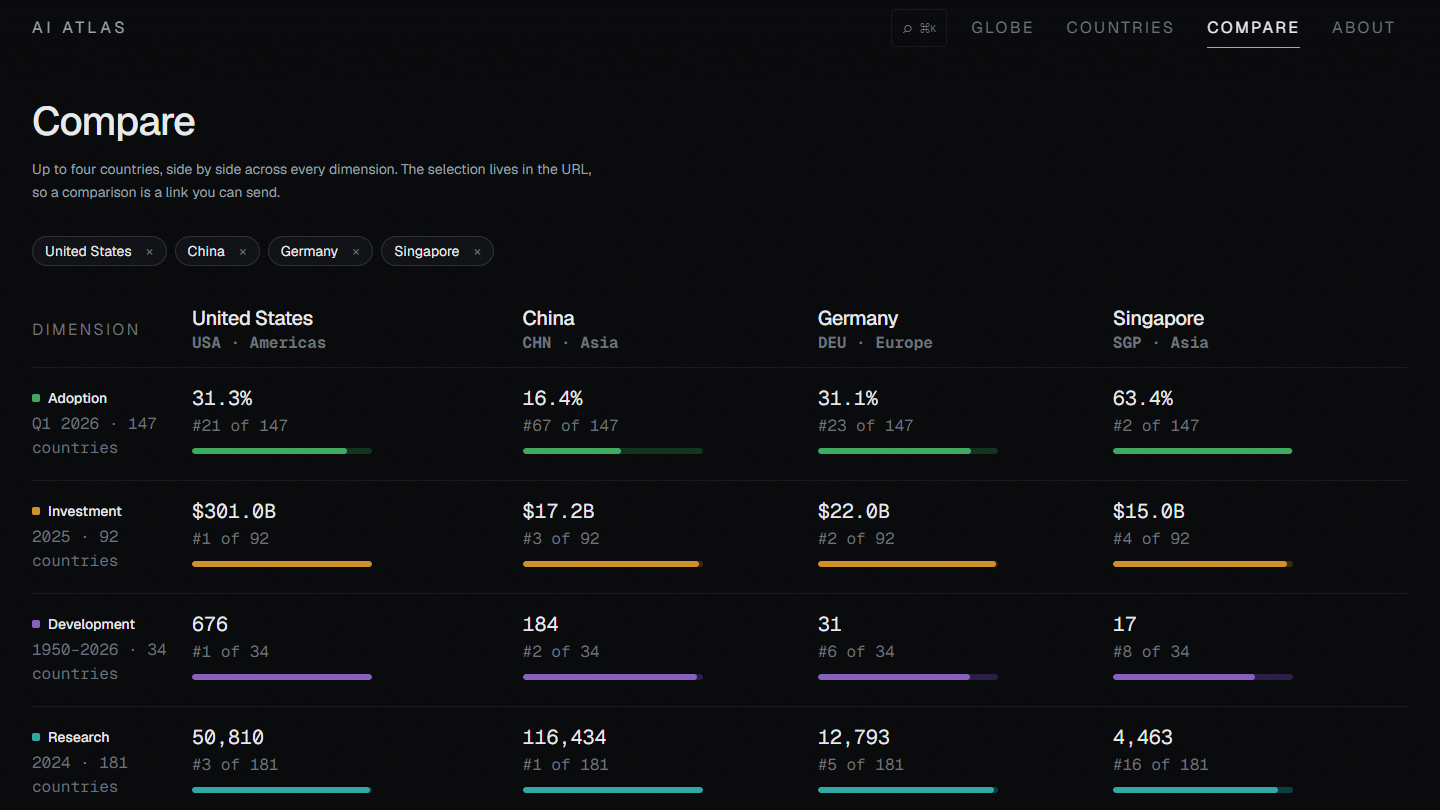
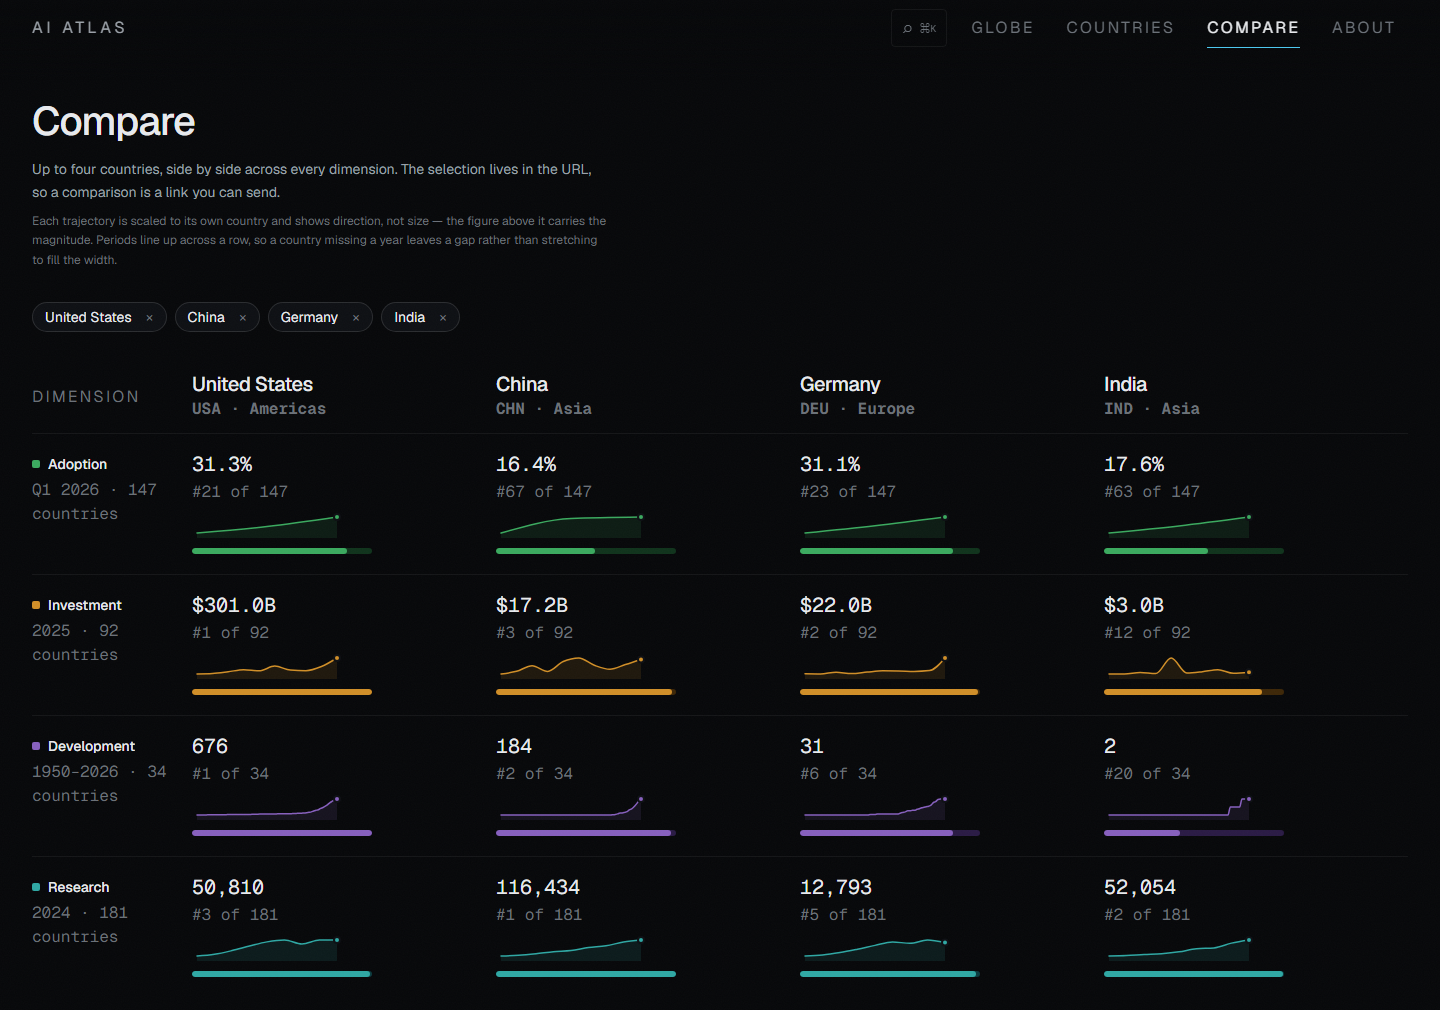
Update README for the scrubber, and refresh the stale screenshots
The globe caption, the interaction table and the deep-link example now
cover scrubbing, and the architecture section explains why the colour
scale spans every period rather than the one on screen — it is the
clearest example in the project of the "never fabricate a number" rule
applying to a visual choice rather than a figure.

Three screenshots showed features that have since changed: the globe
panel had no scrubber and no way into the country page, the countries
table had no column distributions, and compare had no trajectories.
Re-shot at 1440 wide at 1x to match the ones already in the repo, which
also takes the globe panel from 3.5 MB down to under 1 MB.

diff --git a/README.md b/README.md
@@ -32,20 +32,20 @@ that into one number would be inventing a finding rather than showing one.
 
 <table>
 <tr>
-<td width="50%"><img src="docs/assets/country-panel.png" alt="The United States selected on the investment layer"></td>
+<td width="50%"><img src="docs/assets/country-panel.png" alt="The United States selected on the investment layer, with the decade scrubber below the globe"></td>
 <td width="50%"><img src="docs/assets/country-page.png" alt="China's country page, showing four metrics and their history"></td>
 </tr>
 <tr>
-<td><b>The globe</b> — click a country and the camera flies to it, the globe slides clear of the panel, and every layer's figure appears with its rank and movement. Switching layers crossfades the whole sphere to a new palette.</td>
+<td><b>The globe</b> — click a country and the camera flies to it, the globe slides clear of the panel, and every layer's figure appears with its rank and movement. Switching layers crossfades the whole sphere to a new palette; the scrubber walks it back through a decade.</td>
 <td><b>Country pages</b> — 194 of them, statically generated. The hero names the dimension that country actually leads on. Four metrics, their full history, and every notable AI model built there.</td>
 </tr>
 <tr>
-<td><img src="docs/assets/countries-table.png" alt="The ranked country table sorted by research output"></td>
+<td><img src="docs/assets/countries-table.png" alt="The ranked country table, each column headed by its own distribution"></td>
 <td><img src="docs/assets/compare.png" alt="Four countries compared across all dimensions"></td>
 </tr>
 <tr>
 <td><b>The ranked index</b> — the same data as a table, sortable by any dimension and filterable by region. The globe is not the only route to the data, which is why this is a requirement rather than a nice-to-have.</td>
-<td><b>Compare</b> — up to four countries at once. Bars are percentile <i>within each dimension</i>, the only scale on which a share of adults, a sum in dollars and a count of papers honestly sit together.</td>
+<td><b>Compare</b> — up to four countries at once. Bars are percentile <i>within each dimension</i>, the only scale on which a share of adults, a sum in dollars and a count of papers honestly sit together. Each cell carries the trajectory behind the figure.</td>
 </tr>
 </table>
 
@@ -107,6 +107,14 @@ into a 2048×1024 canvas and mapped on, so the sphere is a single draw call and 
 switch is a GPU crossfade between two textures. Picking runs on the CPU through
 `d3-geo`'s point-in-polygon with a bounding-box prefilter — exact, and no ID-buffer
 readback. That leaves the entire GPU budget for atmosphere, bloom and starfield.
+
+**Scrubbing time re-paints, but never re-scales.** The globe steps through a layer's
+history — ten years of investment, nine of research. The colour scale is built from every
+period rather than the one on screen, so 2016 renders visibly dimmer and a decade of
+growth reads as growth. Re-normalising per period would paint 2016's leader exactly as
+dark as 2025's, which is the one way a choropleth can fabricate a number. Choropleths are
+painted on demand into a six-entry LRU cache; at ~11 MB of texture memory each, holding
+all 23 layer/period combinations would cost about 250 MB.
 
 **The globe never rotates; the camera orbits.** World space and globe space stay
 identical, so a raycast hit converts straight to latitude and longitude with no rotation
@@ -203,6 +211,7 @@ matter how healthy the row counts look.
 | **Hover**          | Country, value and rank.                                          |
 | **Click**          | Fly to the country and open its detail panel.                     |
 | **`1`–`4`**        | Switch layer.                                                     |
+| **Scrubber**       | Step a layer through its history. Arrows step, Home/End jump.     |
 | **`←` `→`**        | Walk the ranking, camera following. Hold to tour the leaderboard. |
 | **`Home` / `End`** | Jump to best / worst rank.                                        |
 | **`Esc`**          | Close the panel.                                                  |
@@ -212,8 +221,9 @@ matter how healthy the row counts look.
 | **`/`**              | Focus search      |
 | **`↑` `↓`**          | Move between rows |
 
-Every view is a link: `/?layer=investment&country=BRA` ·
-`/compare?countries=USA,CHN,DEU`.
+Every view is a link: `/?layer=investment&period=2019&country=BRA` ·
+`/compare?countries=USA,CHN,DEU`. The period travels as its label, not an index, so the
+link still means 2019 after a future ingest adds an earlier year.
 
 ---
 
